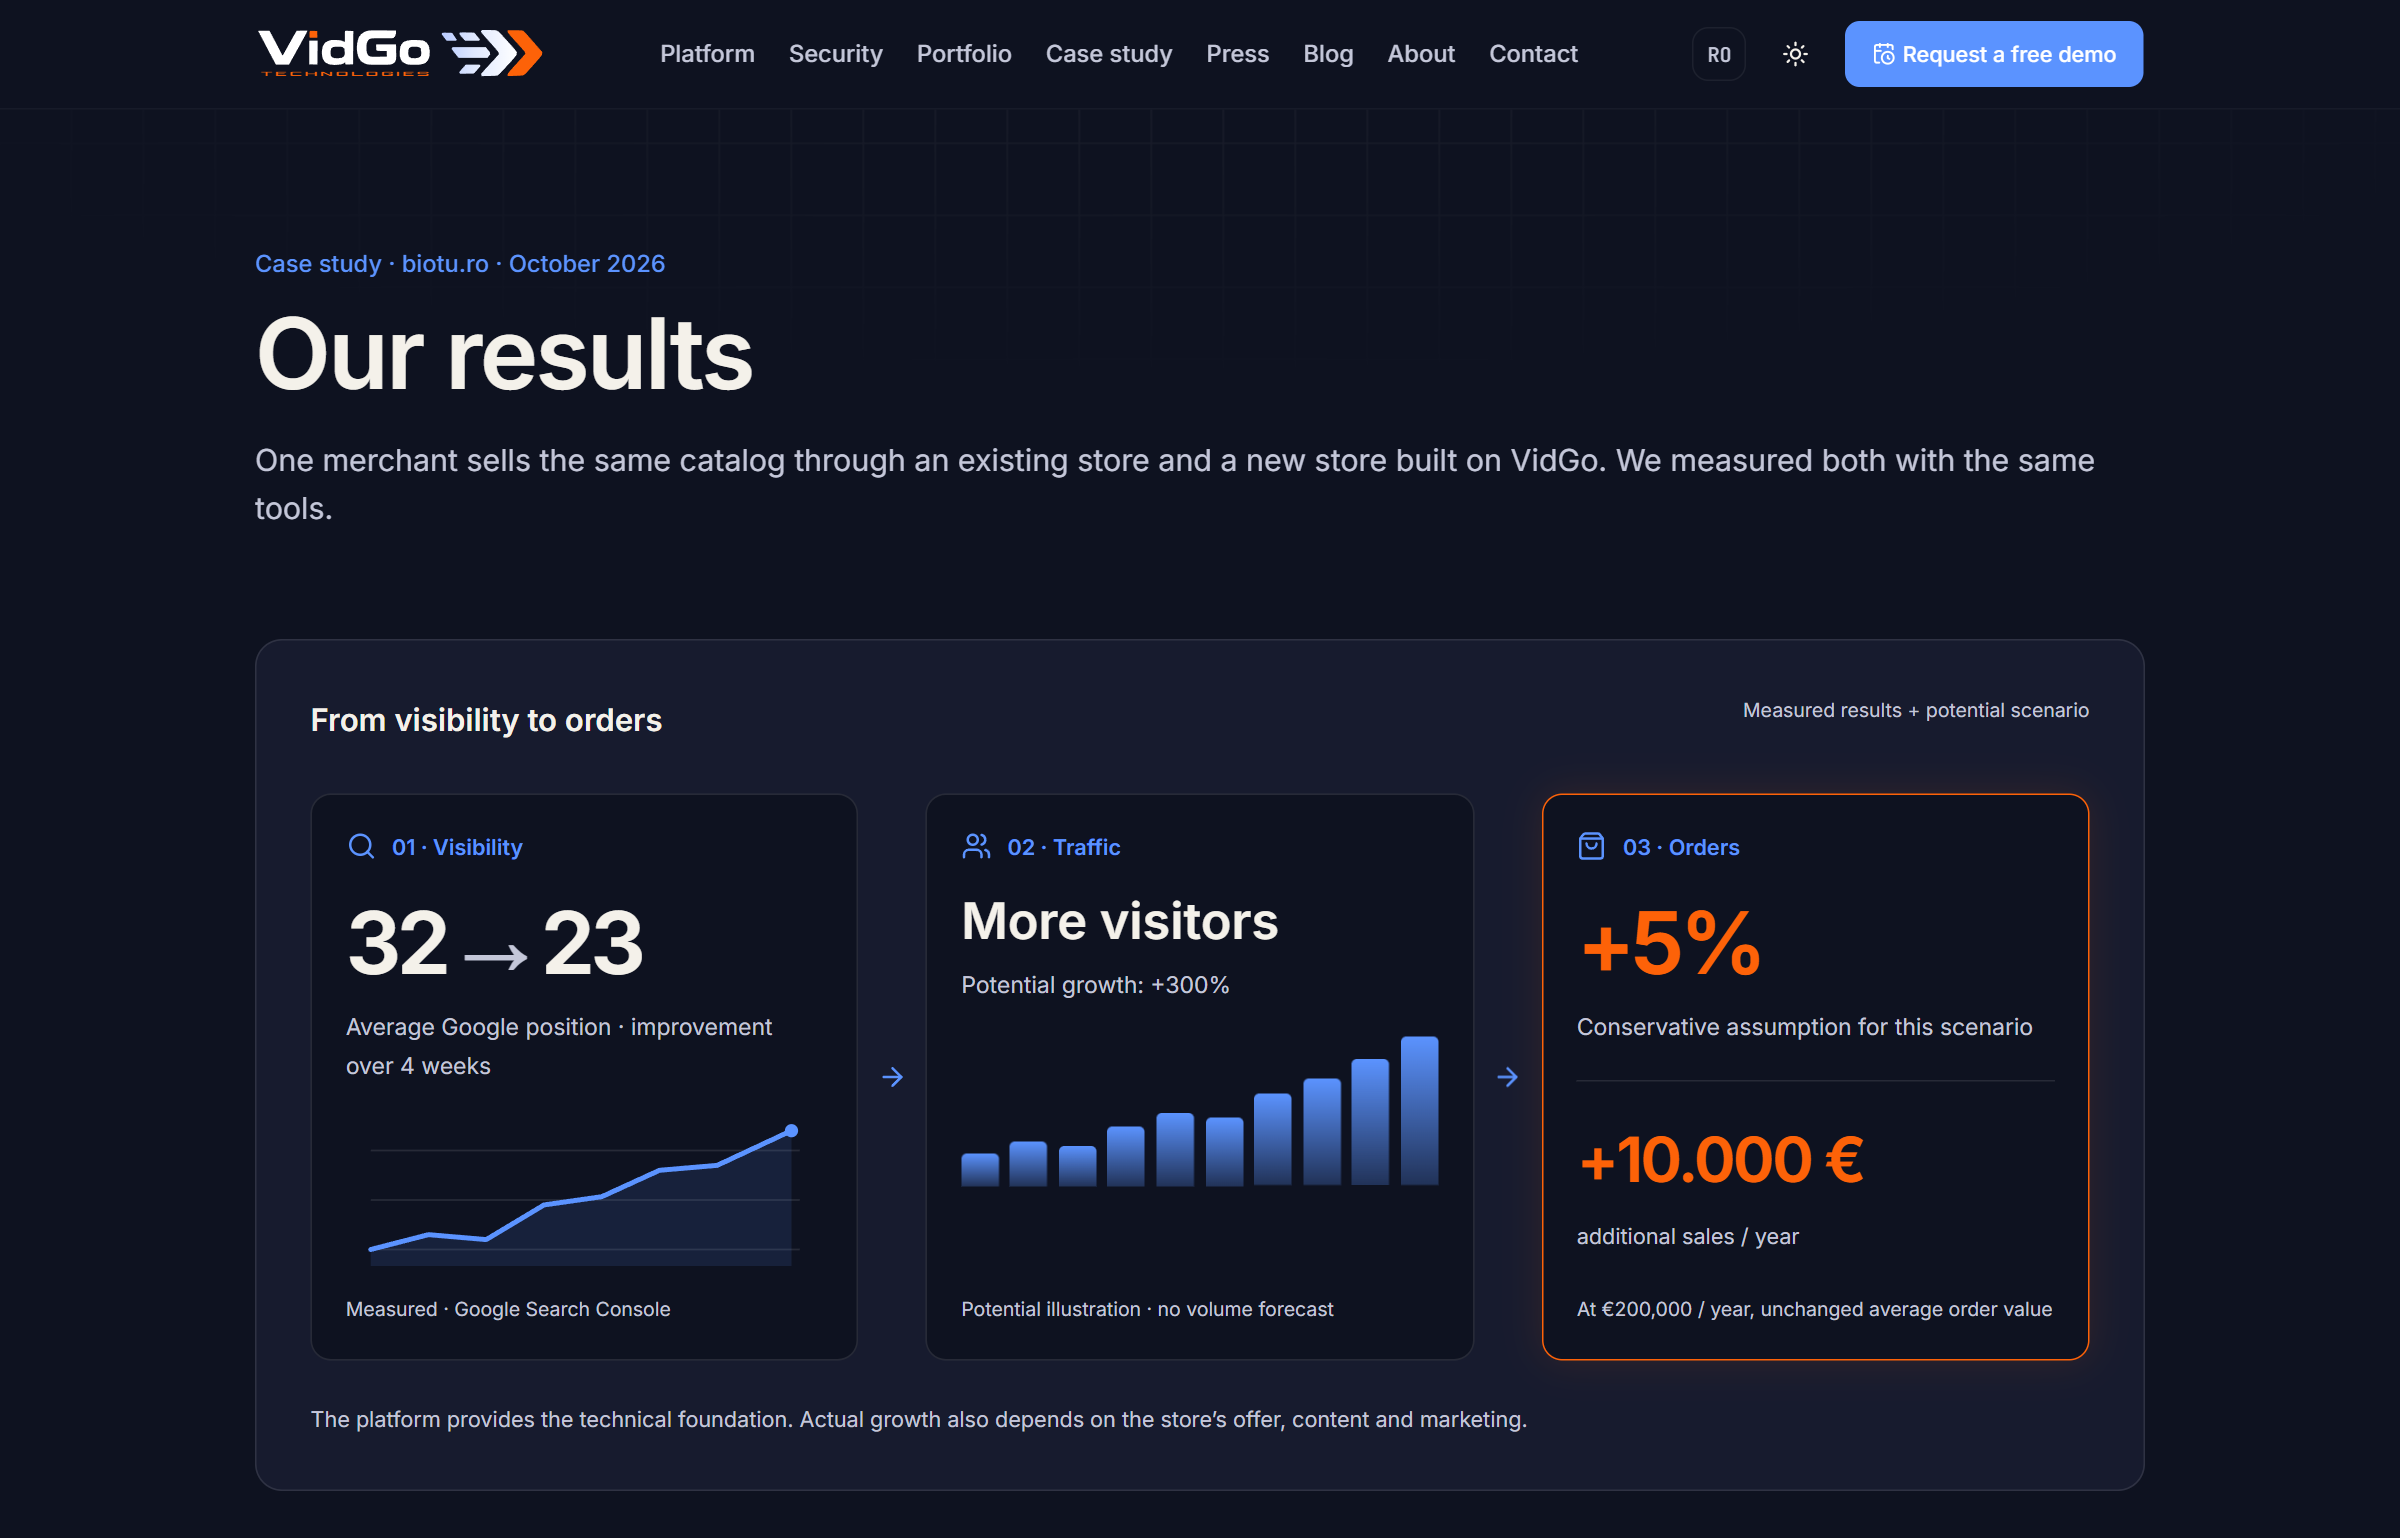
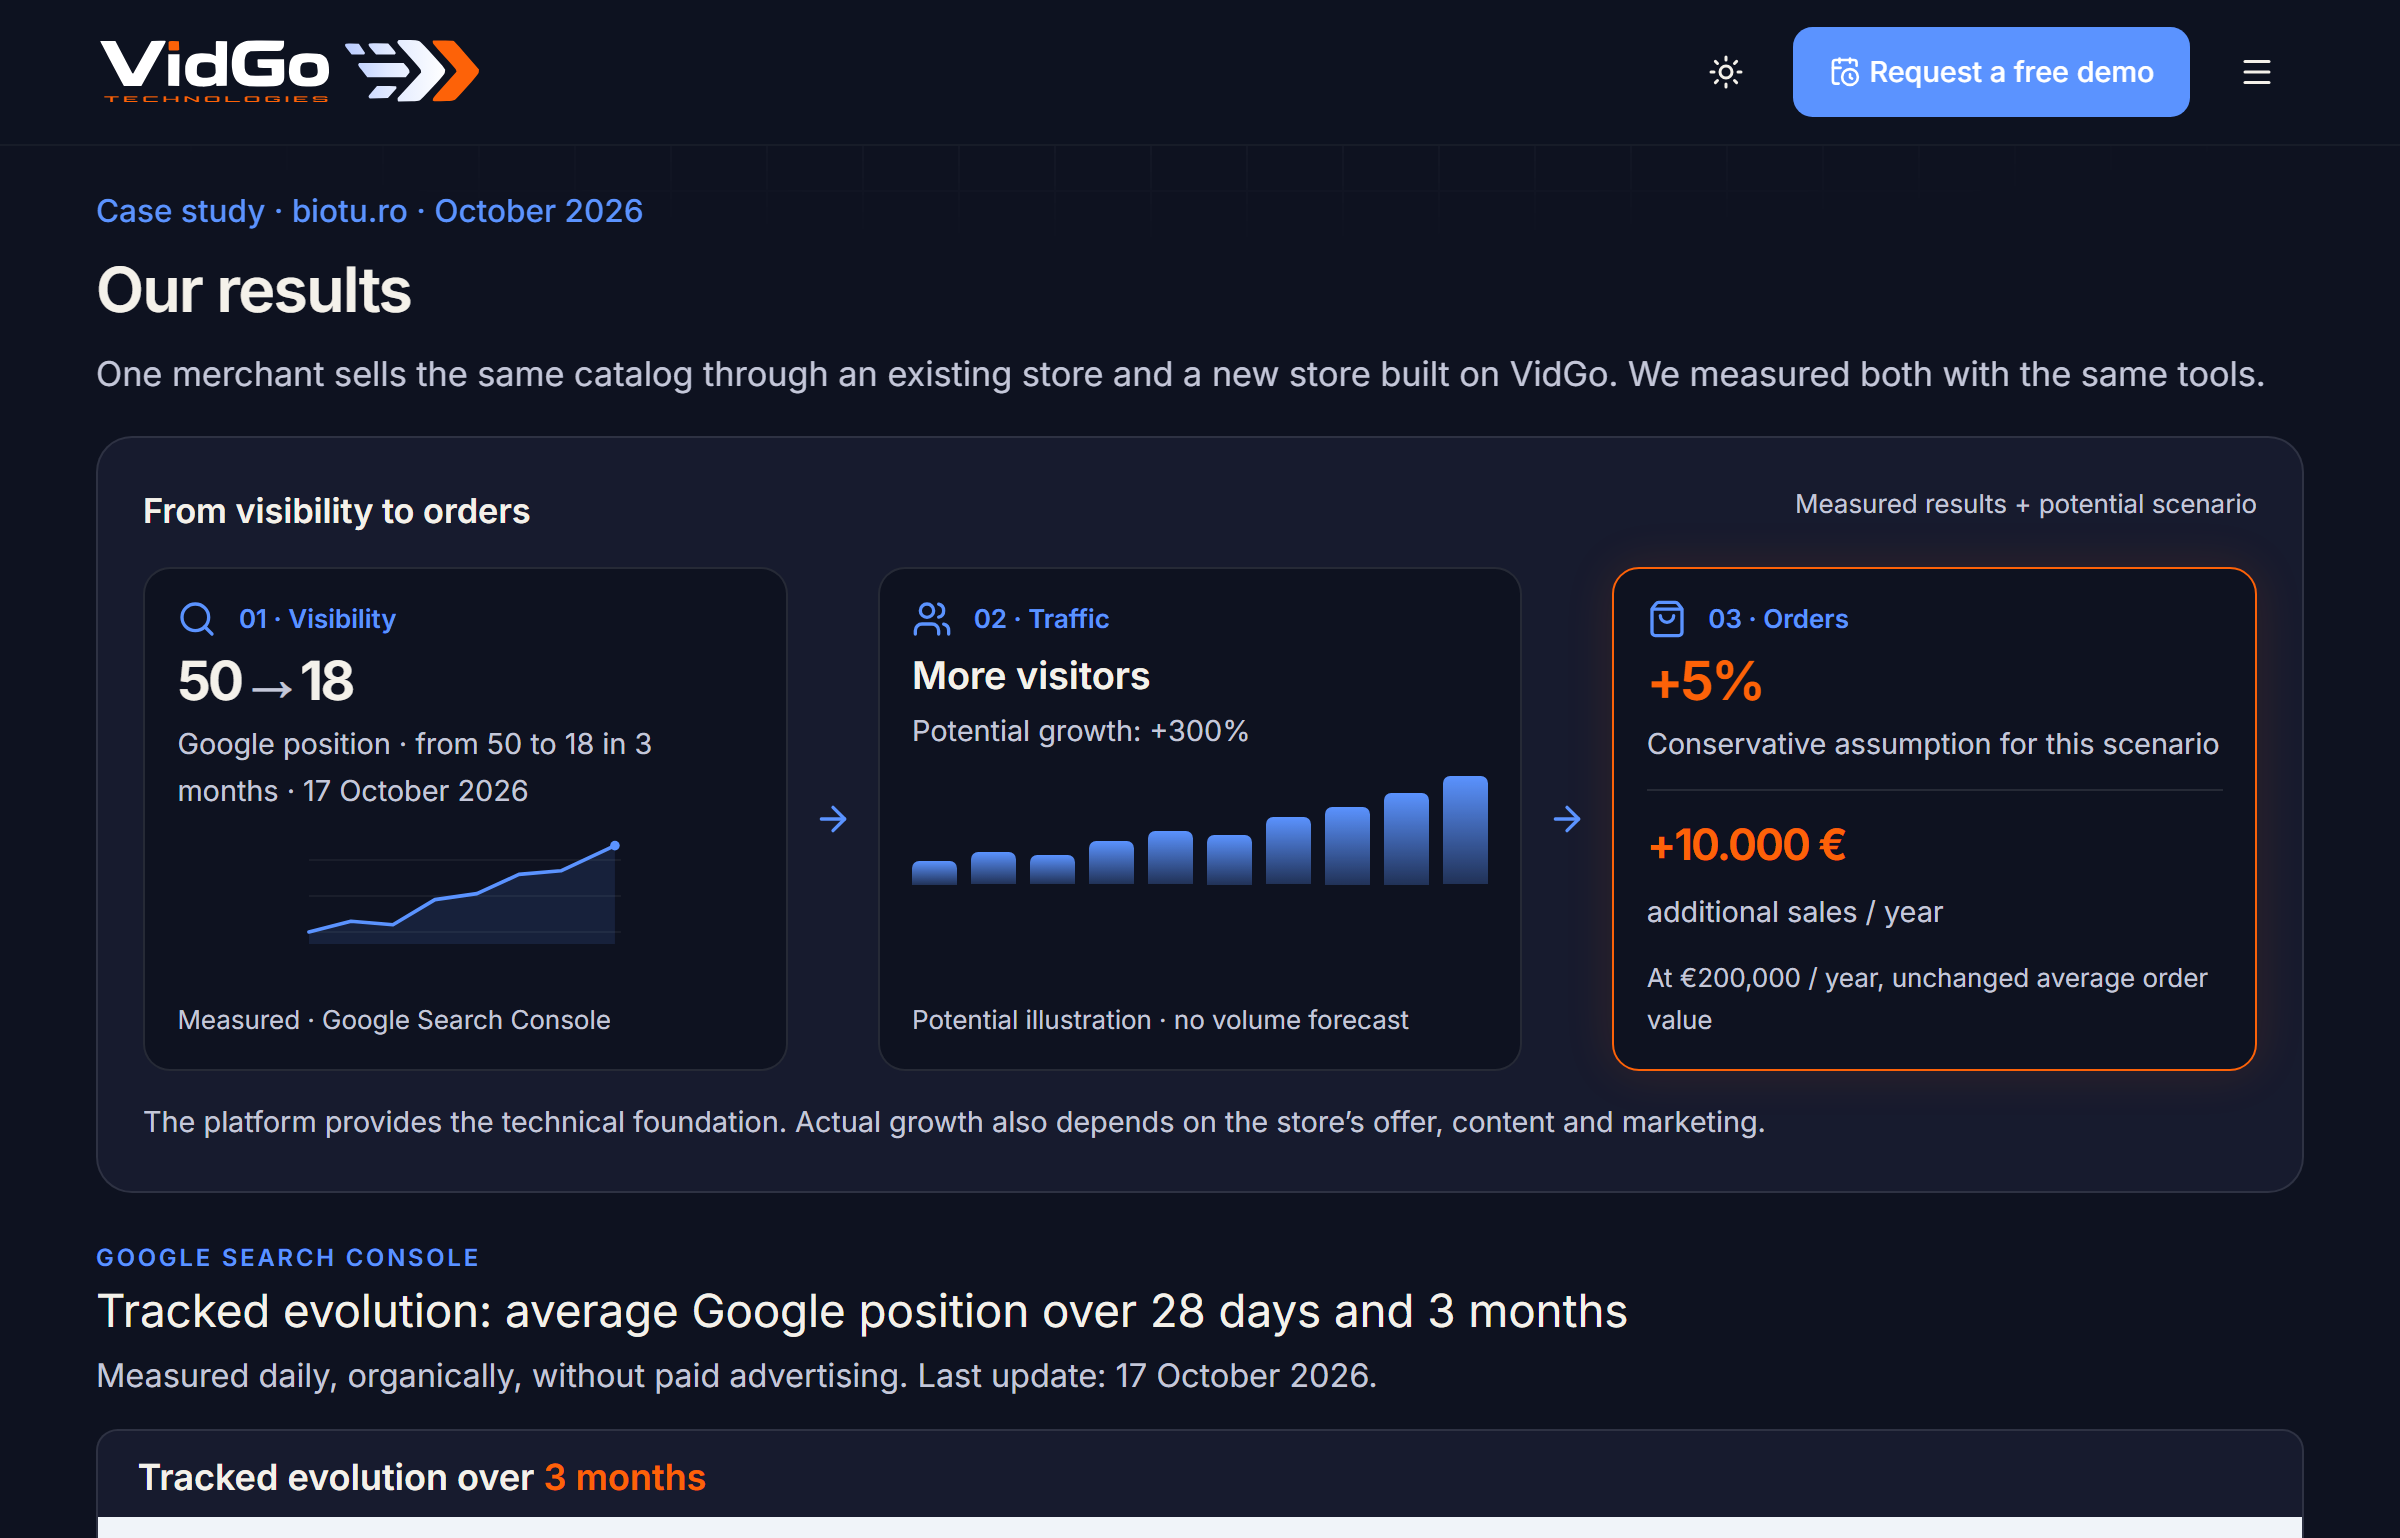
Case study: refresh the social preview image (50 to 18)

diff --git a/src/app/(ro)/studiu-de-caz/page.tsx b/src/app/(ro)/studiu-de-caz/page.tsx
@@ -1,4 +1,4 @@
 import { CaseStudyView } from "@/views/case-study";
 import { alternatesFor } from "@/lib/metadata";
-export const metadata = { title: "Studiu de caz biotu.ro — Același magazin, două platforme", description: "Comparație măsurată: disponibilitate, viteză, PageSpeed și SEO pentru același catalog pe două platforme.", alternates: alternatesFor("ro", "/studiu-de-caz"), openGraph: { type: "website", url: "/studiu-de-caz", title: "VidGo · biotu.ro case study", images: [{ url: "/assets/case-study-preview.png", width: 2400, height: 1538, alt: "VidGo results: visibility, traffic and orders" }] }, twitter: { card: "summary_large_image", title: "VidGo · biotu.ro case study", images: ["/assets/case-study-preview.png"] } };
+export const metadata = { title: "Studiu de caz biotu.ro — Același magazin, două platforme", description: "Comparație măsurată: disponibilitate, viteză, PageSpeed și SEO pentru același catalog pe două platforme.", alternates: alternatesFor("ro", "/studiu-de-caz"), openGraph: { type: "website", url: "/studiu-de-caz", title: "VidGo · biotu.ro case study", images: [{ url: "/assets/case-study-preview.png", width: 2400, height: 1538, alt: "VidGo case study: biotu.ro Google position from 50 to 18 in 3 months, organic" }] }, twitter: { card: "summary_large_image", title: "VidGo · biotu.ro case study", images: ["/assets/case-study-preview.png"] } };
 export default function Page() { return <CaseStudyView locale="ro" />; }

diff --git a/src/app/(en)/en/case-study/page.tsx b/src/app/(en)/en/case-study/page.tsx
@@ -1,4 +1,4 @@
 import { CaseStudyView } from "@/views/case-study";
 import { alternatesFor } from "@/lib/metadata";
-export const metadata = { title: "biotu.ro case study — The same store, two platforms", description: "Measured comparison of uptime, speed, PageSpeed and SEO for the same catalog on two platforms.", alternates: alternatesFor("en", "/studiu-de-caz"), openGraph: { type: "website", url: "/en/case-study", title: "VidGo · biotu.ro case study", images: [{ url: "/assets/case-study-preview.png", width: 2400, height: 1538, alt: "VidGo results: visibility, traffic and orders" }] }, twitter: { card: "summary_large_image", title: "VidGo · biotu.ro case study", images: ["/assets/case-study-preview.png"] } };
+export const metadata = { title: "biotu.ro case study — The same store, two platforms", description: "Measured comparison of uptime, speed, PageSpeed and SEO for the same catalog on two platforms.", alternates: alternatesFor("en", "/studiu-de-caz"), openGraph: { type: "website", url: "/en/case-study", title: "VidGo · biotu.ro case study", images: [{ url: "/assets/case-study-preview.png", width: 2400, height: 1538, alt: "VidGo case study: biotu.ro Google position from 50 to 18 in 3 months, organic" }] }, twitter: { card: "summary_large_image", title: "VidGo · biotu.ro case study", images: ["/assets/case-study-preview.png"] } };
 export default function Page() { return <CaseStudyView locale="en" />; }
